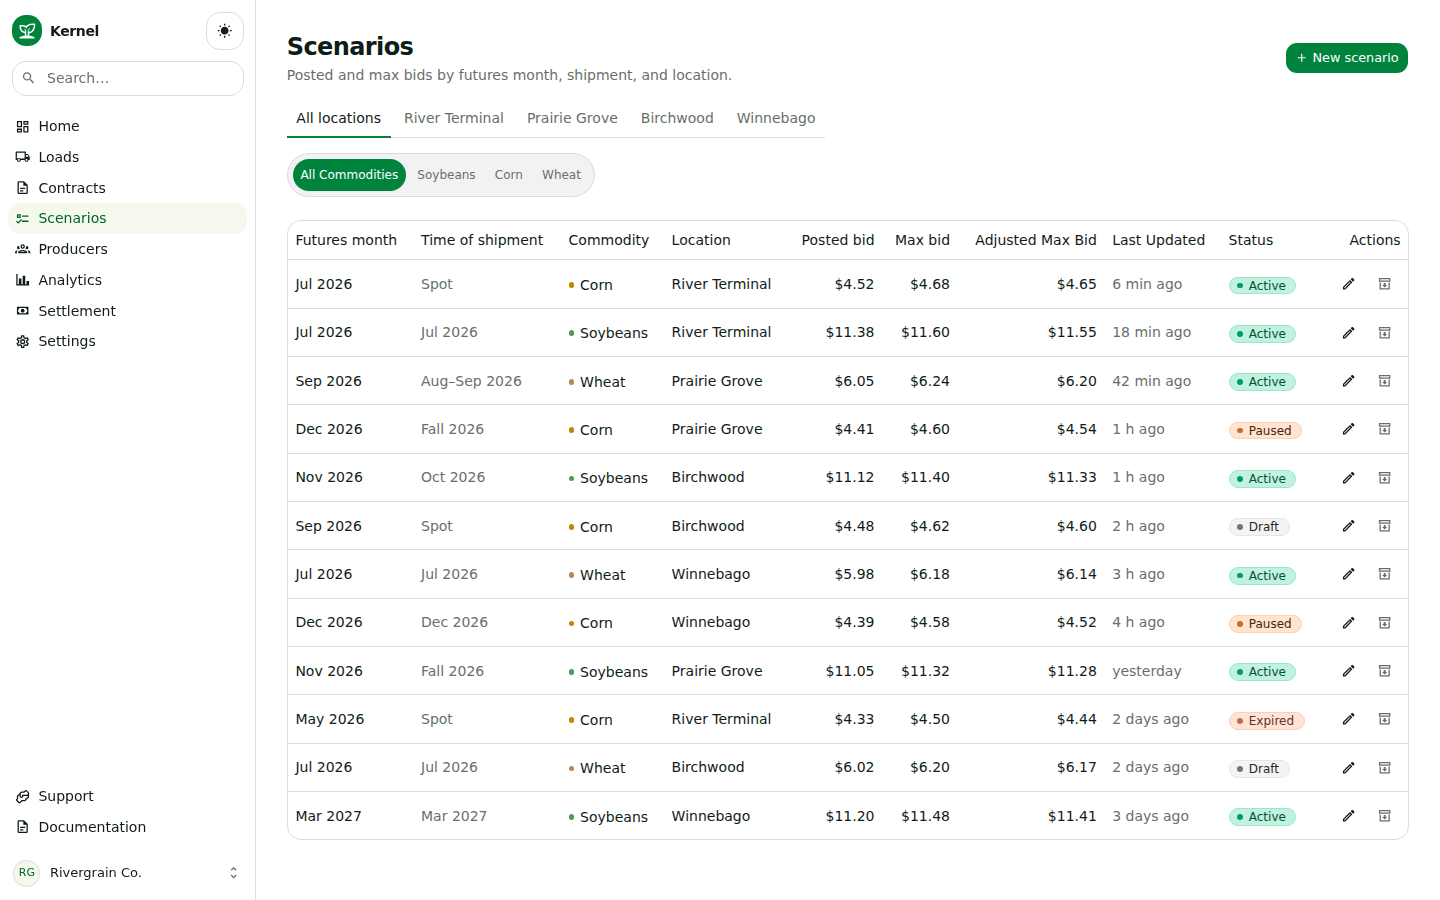
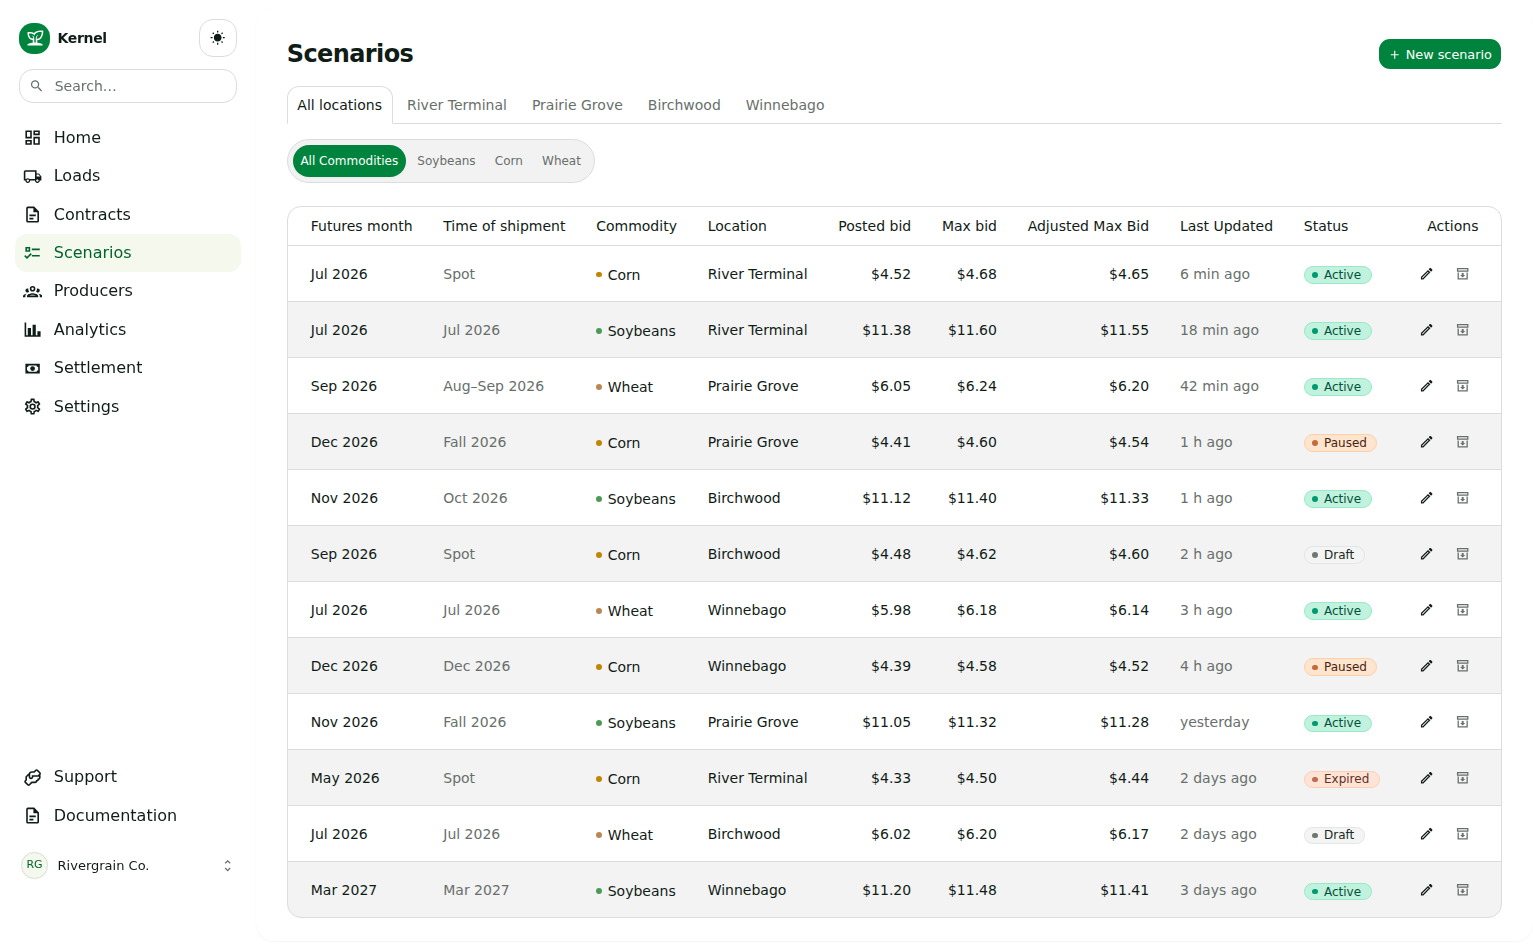
Add striped prop to the DS Table (zebra rows); use it on Scenarios
Zebra striping belongs in the DS, so add a `striped` boolean to the Table
primitive: alternating body rows get a subtle bg-foreground/5 overlay
(theme-agnostic — reads on any surface, unlike a bg-muted stripe which
vanishes where --muted equals the card). Documented as an api prop on the
Table doc entity; parity gate green (69 entities, 0 violations). Scenarios
table opts in via <Table striped>.

Claude-Session: https://claude.ai/code/session_013x8ctDHrn4DRGQcBdkvgcV

diff --git a/kernel-portal/src/components/ui/table.tsx b/kernel-portal/src/components/ui/table.tsx
@@ -4,7 +4,15 @@ import * as React from "react"
 
 import { cn } from "@/lib/utils"
 
-function Table({ className, ...props }: React.ComponentProps<"table">) {
+function Table({
+  className,
+  striped,
+  ...props
+}: React.ComponentProps<"table"> & {
+  /** Zebra-stripe alternating body rows for easier row tracking in dense
+      tables. Uses a subtle foreground overlay so it reads on any surface. */
+  striped?: boolean
+}) {
   return (
     <div
       data-slot="table-container"
@@ -12,7 +20,12 @@ function Table({ className, ...props }: React.ComponentProps<"table">) {
     >
       <table
         data-slot="table"
-        className={cn("w-full caption-bottom text-sm", className)}
+        data-striped={striped ? "" : undefined}
+        className={cn(
+          "w-full caption-bottom text-sm",
+          striped && "[&_tbody_tr:nth-child(even)]:bg-foreground/5",
+          className
+        )}
         {...props}
       />
     </div>

diff --git a/kernel-portal/src/lib/component-docs/table.ts b/kernel-portal/src/lib/component-docs/table.ts
@@ -25,6 +25,13 @@ export const tableDoc: ComponentDoc = parseComponentDoc({
       ],
     },
     {
+      kind: "api",
+      props: [
+        { name: "striped", type: "boolean", description: "Zebra-stripe alternating body rows (subtle foreground overlay) for easier row tracking in dense tables." },
+        { name: "className", type: "string", description: "Merged onto the root `table` slot." },
+      ],
+    },
+    {
       kind: "anatomy",
       slots: [
         "table-container",

diff --git a/kernel-app/src/pages/scenarios.tsx b/kernel-app/src/pages/scenarios.tsx
@@ -88,7 +88,7 @@ export default function ScenariosPage() {
       {/* object table */}
       <div className="px-6 py-6 md:px-8">
         <div className="overflow-x-auto rounded-lg border border-border bg-card">
-          <Table>
+          <Table striped>
             <TableHeader>
               <TableRow>
                 <TableHead>Futures month</TableHead>

diff --git a/docs/worklog/2026-07.md b/docs/worklog/2026-07.md
@@ -2273,3 +2273,23 @@ Touched: README.md (new), docs/GUIDE.md (renamed from docs/README.md),
 and the five live pointers updated to docs/GUIDE.md: AGENTS.md, docs/AGENTS.md,
 CLAUDE.md, docs/component-doc-page-playbook.md, docs/worklog header. Historical
 worklog/archive/audit/decision references left immutable.
+
+## 2026-07-28 — Table: `striped` prop (zebra rows)
+
+**What:** Added a `striped` boolean prop to the `Table` primitive
+(`components/ui/table.tsx`) — zebra-stripes alternating body rows via a
+subtle `bg-foreground/5` overlay on `nth-child(even)`, set behind a
+`data-striped` attribute. Foreground-overlay (not `bg-muted`) so it reads
+on any surface regardless of how a theme relates `--muted` to `--card`.
+Documented as an `api` prop on the Table doc entity; parity gate green
+(69 entities, 0 violations). Also added earlier this branch: an `Archive`
+glyph to the MDI icon shim.
+
+**Why:** Dense operational tables (the insider Scenarios grid) track rows
+more easily with zebra striping; belongs in the DS as a prop, not a
+per-app hack.
+
+**Touched:** kernel-portal/src/components/ui/table.tsx,
+kernel-portal/src/lib/component-docs/table.ts, this worklog. Gates:
+check-component-docs 0 violations, doc-schema __check__ ok, portal tsc/
+build clean.
